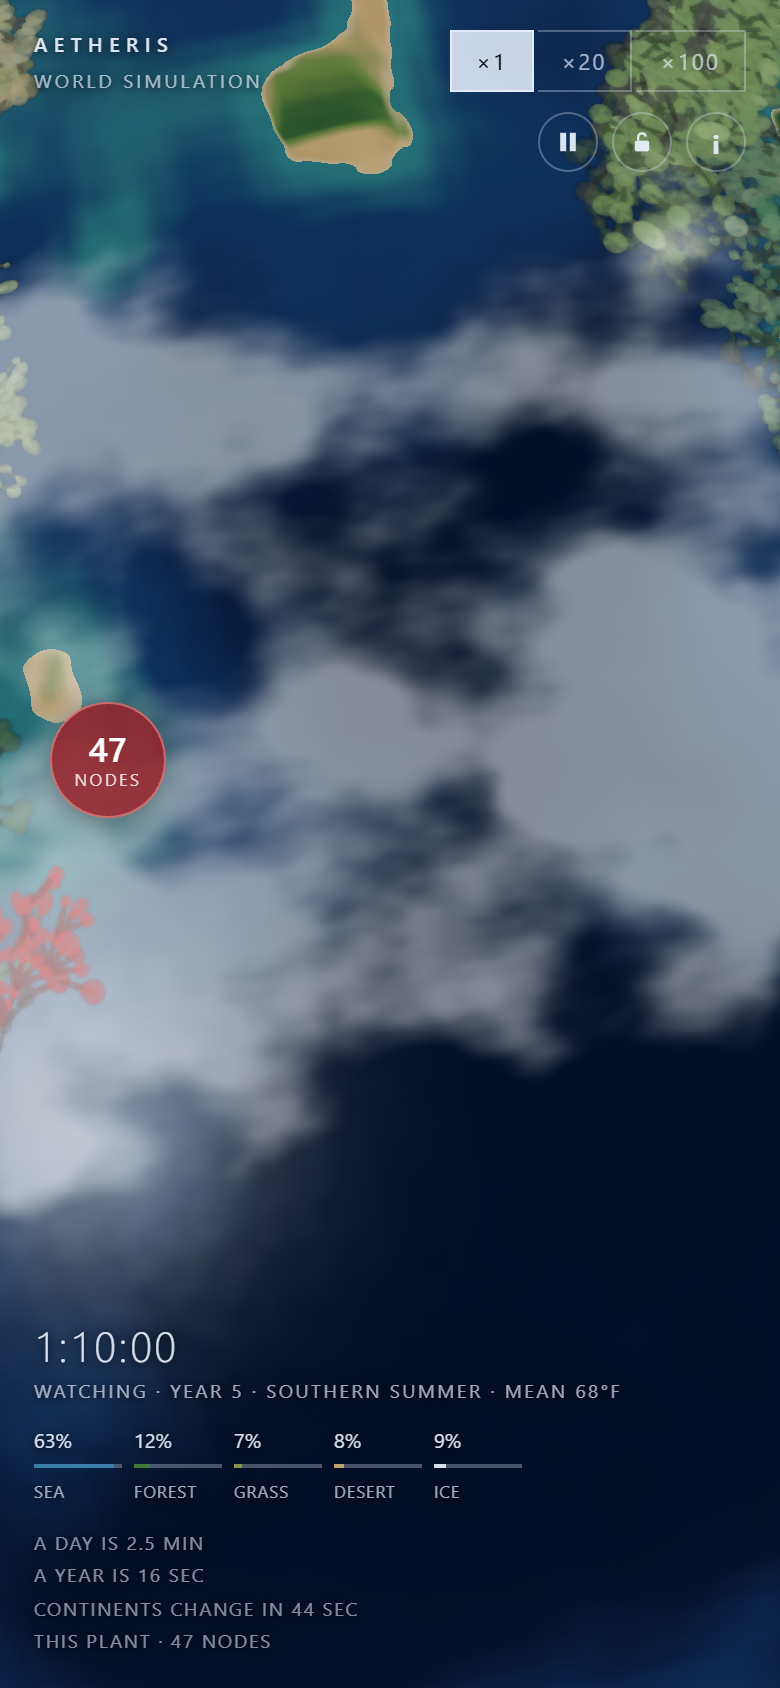
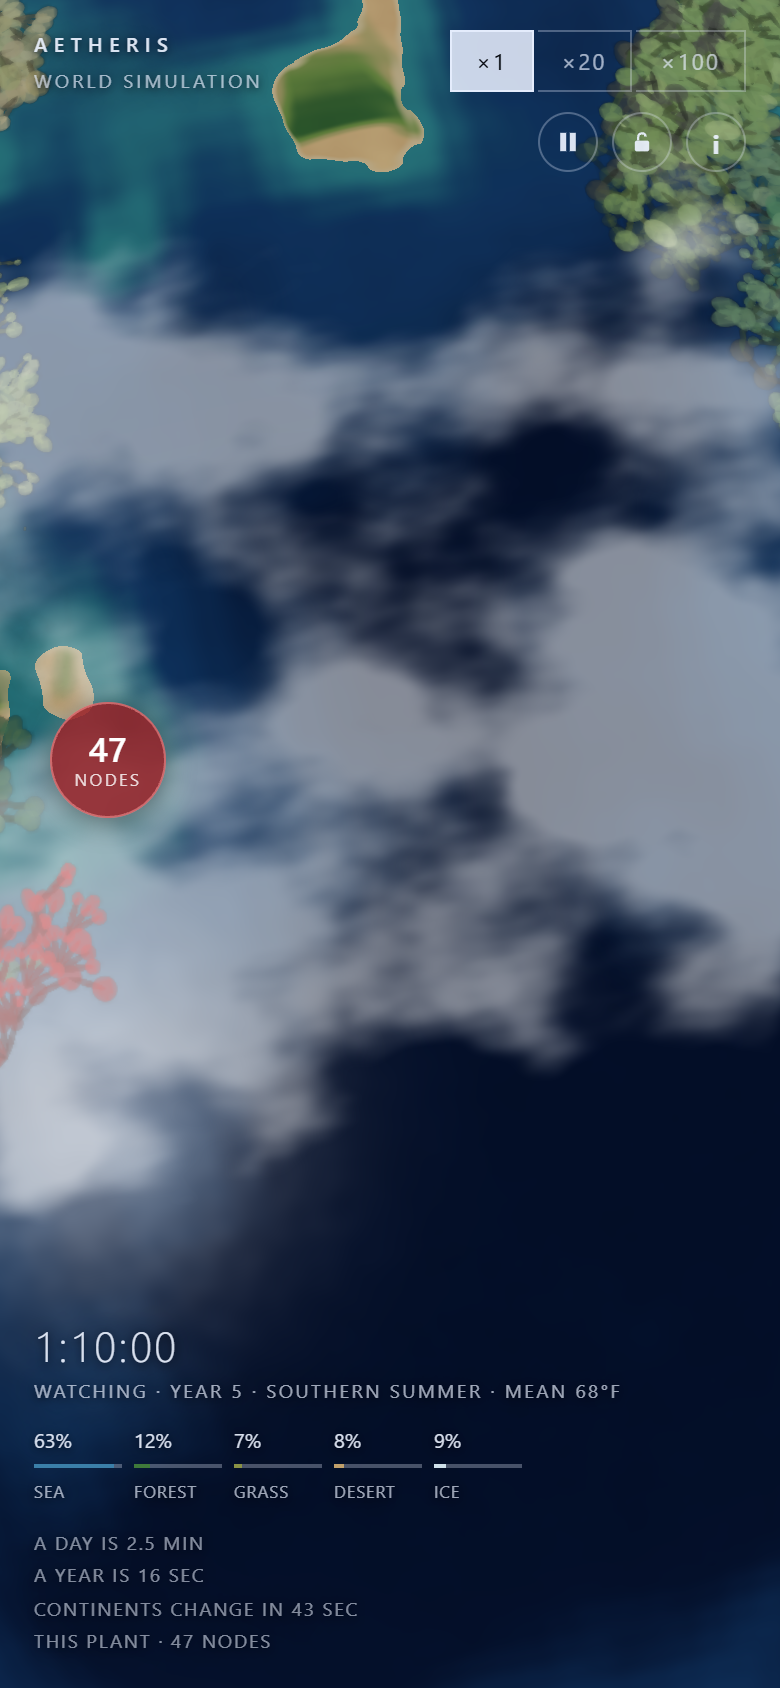
Three reasons one press lit up two plants, and a metric for the one that was not a bug
A spore must not inherit the highlight. It copies a parent's genome but is
rooted in its own right and lands anywhere on the planet, so keying the mark
off the genome SOURCE lit a brand-new independent plant on the far side of
the world. It is keyed off the parent now: only a real child inherits. Don
diagnosed this from a screenshot before I had finished measuring it.

Picking now takes a vote rather than the single nearest node. Nearest is a
knife edge -- where two plants interleave the closest node flips for a hair's
movement of the ray, and the ray moves on its own because the framing keeps
a slow breath in it even while the world is paused. Pressing the same spot
twice answered differently. Measured: twelve presses a sixth of a second
apart at each of eight spots, in a paused world, now give one answer every
time.

And the highlight is applied AFTER the wood is drained rather than before,
or it is drained with it. That one is not a bug in the selection: a plant is
held together by heartwood, so a body really is often two or three patches
of living growth strung on a thread of dead wood -- measured, nine of the
twelve largest bodies are one connected piece in the parent graph while
forming twenty-seven to eighty-eight spatial clumps with gaps up to eighty
steps. The highlight was right to take all of it and wrong to make the
thread invisible against open water.

Provinces, because every diversity number here was global and a global
[…]

diff --git a/index.html b/index.html
@@ -1746,6 +1746,60 @@ let angDiffSum = 0, angDiffN = 0, angBlocked = 0;
 const INSUM = new Float64Array(NIN), INSUM2 = new Float64Array(NIN);
 const INMIN = new Float32Array(NIN), INMAX = new Float32Array(NIN);
 let inN = 0;
+/* ---- provinces --------------------------------------------------------
+   Every diversity number in this project is global, and a global number
+   cannot tell a planet of distinct provinces from a planet uniformly mixed:
+   both have the same strategies present in the same proportions. That is
+   exactly the difference dispersal erases, so it is exactly the thing that
+   has to be counted to say whether dispersal is costing anything.
+
+   The sphere is cut into equal-area boxes — equal in area because bands of
+   equal latitude are not, and a polar box holding four nodes would otherwise
+   swamp the average with noise. Each box gets the strategy histogram of the
+   nodes standing in it. `differentiation` is the mean total-variation
+   distance between two boxes drawn at random: 0 means every province holds
+   the same mixture and geography has stopped meaning anything, 1 means no two
+   provinces have a strategy in common. `withinEven` is how mixed a single
+   province is on average, so the two together separate "everywhere the same
+   and varied" from "everywhere different and uniform". */
+const GEOLAT = 8;                       // bands of equal area, pole to pole
+function provinces(){
+  const H=[], N=[];
+  const boxOf = (x,y,z)=>{
+    /* equal-area: the band index is linear in sin(latitude) */
+    let bi=Math.floor((y+1)*0.5*GEOLAT); if(bi<0)bi=0; if(bi>=GEOLAT)bi=GEOLAT-1;
+    /* and each band is cut into as many boxes as its width can carry, so all
+       boxes hold about the same area */
+    const lo=-1+2*bi/GEOLAT, hi=-1+2*(bi+1)/GEOLAT;
+    const mid=(lo+hi)*0.5, cw=Math.sqrt(Math.max(1e-6,1-mid*mid));
+    const nlon=Math.max(1, Math.round(2*GEOLAT*cw));
+    let li=Math.floor((Math.atan2(z,x)+Math.PI)/(Math.PI*2)*nlon);
+    if(li<0)li=0; if(li>=nlon)li=nlon-1;
+    return bi*1000+li;
+  };
+  const map=new Map();
+  for(let i=0;i<nodeHigh;i++){
+    if(NLIVE[i]!==1) continue;
+    const k=boxOf(NPX[i],NPY[i],NPZ[i]);
+    let h=map.get(k);
+    if(!h){ h=new Float64Array(32); map.set(k,h); }
+    h[strategyOf(i*G)]++;
+  }
+  const boxes=[...map.values()].filter(h=>{ let t=0; for(let j=0;j<32;j++) t+=h[j]; return t>=40; });
+  if(boxes.length<2) return {provinces:boxes.length, differentiation:0, withinEven:0};
+  const norm=boxes.map(h=>{ let t=0; for(let j=0;j<32;j++) t+=h[j];
+                            const o=new Float64Array(32); for(let j=0;j<32;j++) o[j]=h[j]/t; return o; });
+  let d=0, n=0;
+  for(let a=0;a<norm.length;a++) for(let b2=a+1;b2<norm.length;b2++){
+    let s2=0; for(let j=0;j<32;j++) s2+=Math.abs(norm[a][j]-norm[b2][j]);
+    d+=s2*0.5; n++;
+  }
+  let ev=0;
+  for(const o of norm){ let h2=0; for(let j=0;j<32;j++) if(o[j]>0) h2-=o[j]*Math.log(o[j]); ev+=h2/Math.log(32); }
+  return { provinces:norm.length,
+           differentiation:+(d/Math.max(1,n)).toFixed(4),
+           withinEven:+(ev/norm.length).toFixed(4) };
+}
 function resetStats(){
   CAPHIST.fill(0); OUTHIST.fill(0); OUTRAW.fill(0); outN=0; angN=0;
   angDiffSum=0; angDiffN=0; angBlocked=0;
@@ -2033,21 +2087,7 @@ function emitNode(i, pass, w){
     geneColour(go, NPACE[i], GC);
     const young=1-grow;
     let r=GC[0]+young*44, g=GC[1]+young*40, b=GC[2]+young*34;
-    /* The selected body, shown whole. A plant's colour carries its niche and
-       its commitment, and a lineage that spans two terrains legitimately
-       changes colour across itself — so the eye cannot tell one large plant
-       from several touching ones, which is exactly the question worth asking
-       of a thing whose whole point is how much ground it holds. Red is the one
-       hue the palette never makes, for the same reason the size rings are
-       magenta. Value is kept, so the body's own structure still reads through
-       it: wood stays dark, tips stay bright. */
-    if(selId>0 && NSEL[i]===selId){
-      const f=SELFADE;
-      if(f>0){
-        const lum=(0.30*r+0.59*g+0.11*b)/255;
-        r+=( (90+165*lum) -r)*f; g+=(26*lum-g)*f; b+=(32*lum-b)*f;
-      }
-    }
+
     /* Dead wood is not black. Black would swamp hue, which is the channel
        carrying niche, and half the standing structure would go to it — the
        planet would read as scorched. Keep the lineage's hue, take the colour
@@ -2057,6 +2097,31 @@ function emitNode(i, pass, w){
     if(wood){
       const lum=0.30*r+0.59*g+0.11*b;
       r=(r*0.24+lum*0.76)*0.52; g=(g*0.24+lum*0.76)*0.52; b=(b*0.24+lum*0.76)*0.52;
+    }
+
+    /* The selected body, shown whole — and applied AFTER the wood is drained,
+       or the highlight is drained with it.
+     *
+     * That mattered more than it sounds. A plant here is held together by
+     * heartwood: a node that dies still holding children stops living but
+     * stays in the tree as structure, for up to `rot` ticks before the
+     * connection finally goes. So a body is routinely two or three patches of
+     * living growth strung on a thread of dead wood — genuinely one plant,
+     * and the highlight was right to take all of it. But reddening the wood
+     * before it was darkened left the thread almost black against open water,
+     * so the answer looked like a bug: two separate plants both lit up. Red
+     * the wood after, a little deeper than the living growth, and the reason
+     * they are one plant is visible in the same picture as the claim.
+     *
+     * Red because it is the one hue this palette never makes, for the same
+     * reason the size rings are magenta. Value is kept, so tips still read
+     * bright against trunk. */
+    if(selId>0 && NSEL[i]===selId && SELFADE>0){
+      const f=SELFADE, lum=(0.30*r+0.59*g+0.11*b)/255;
+      const tr = wood ? 70+90*lum : 90+165*lum;
+      const tg = wood ? 16*lum    : 26*lum;
+      const tb = wood ? 20*lum    : 32*lum;
+      r+=(tr-r)*f; g+=(tg-g)*f; b+=(tb-b)*f;
     }
 
     const rot=Math.atan2(hn,he);
@@ -2291,7 +2356,11 @@ function addNode(x,y,z,hx,hy,hz,src,par,amt,stepUsed){
   /* growth off a highlighted plant stays highlighted, so the body does not
      appear to stop at a line; and a recycled slot never keeps a stale mark,
      which would light up a stranger born into a dead node's place */
-  NSEL[i] = (src>=0 && selId>0 && NSEL[src]===selId) ? selId : 0;
+  /* `par`, not `src`. A spore copies a parent's genome but is rooted in its
+     own right — it passes par = -1 — so keying the mark off src lit up a
+     brand-new independent plant on the other side of the world merely because
+     the lineage it came from was being held. Only a real child inherits. */
+  NSEL[i] = (par>=0 && selId>0 && NSEL[src]===selId) ? selId : 0;
   if(src<0) randomGenome(i);
   else if(amt>0){
     inheritMutated(src,i,amt);
@@ -3078,6 +3147,7 @@ function plantStats(reset){
     fitSum:+dbgFit.toFixed(2), fitN:dbgFitOk,
     meanLifeSet:+(dbgLife/Math.max(1,dbgHits)).toFixed(0),
     hitFloor:dbgFloor, ageDeaths:dbgAgeDeaths,
+    geo:provinces(),
     strategies:Array.from(CENSUS).filter(v=>v>0).length,
     topStrategy:+(Math.max(...CENSUS)/Math.max(1,censusN)).toFixed(3),
     /* the census in full, not just its width and its peak. Two readings of it
@@ -4525,7 +4595,17 @@ function pickBody(px,py){
   const i=Math.min(PGRID-1,Math.max(0,((ox+1)*0.5*PGRID)|0));
   const j=Math.min(PGRID-1,Math.max(0,((oy+1)*0.5*PGRID)|0));
   const k=Math.min(PGRID-1,Math.max(0,((oz+1)*0.5*PGRID)|0));
-  let best=-1, bd=PARAMS.step*PARAMS.step*36;
+  /* Every body near the press votes, weighted by how close it comes, and the
+     loudest wins — rather than simply taking the single nearest node.
+     Nearest is a knife edge: where two plants interleave, the closest node
+     flips from one to the other for a hair's movement of the ray, and the ray
+     does move on its own, because the framing keeps a slow breath in it even
+     while the world is paused. Pressing the same spot twice then answered
+     differently. A vote only changes its mind when the finger is genuinely
+     between two plants, which is the honest case for it to be uncertain. */
+  const R=PARAMS.step*3.0, R2=R*R;
+  const vote=new Map();
+  let best=-1, bw=0;
   for(let a=-1;a<=1;a++){
     const ia=i+a; if(ia<0||ia>=PGRID) continue;
     for(let bb=-1;bb<=1;bb++){
@@ -4539,12 +4619,16 @@ function pickBody(px,py){
           if(NLIVE[q]===0) continue;
           const ex2=NPX[q]-ox, ey2=NPY[q]-oy, ez2=NPZ[q]-oz;
           const d2=ex2*ex2+ey2*ey2+ez2*ez2;
-          if(d2<bd){ bd=d2; best=q; }
+          if(d2>R2) continue;
+          const r2=PROOT[q];
+          const w=(vote.get(r2)||0) + 1/(d2+1e-9);
+          vote.set(r2,w);
+          if(w>bw){ bw=w; best=r2; }
         }
       }
     }
   }
-  return best<0 ? -1 : PROOT[best];
+  return best;
 }
 const selBadge = document.getElementById("selbadge");
 function placeBadge(px,py){
@@ -5345,6 +5429,55 @@ window.__world = {
   params(){ return PARAMS; },
   /* picking, so the gesture can be tested without dispatching one */
   pick(x,y){ return pickBody(x,y); },
+  /* Is a body one connected piece, and does it look like one? The parent
+     graph says what the simulation believes; the spatial clumping says what
+     the eye sees. Where they disagree, wood is holding two visible patches
+     together and the highlight is telling the truth about a plant that does
+     not look like one plant. */
+  bodyDiag(n){
+    const sz=new Map();
+    for(let i=0;i<nodeHigh;i++) if(NLIVE[i]!==0) sz.set(PROOT[i],(sz.get(PROOT[i])||0)+1);
+    const roots=[...sz.entries()].sort((a,b)=>b[1]-a[1]).slice(0,n|0).map(e=>e[0]);
+    const out=[];
+    for(const r of roots){
+      const ns=[]; let alive=0, wood=0;
+      for(let i=0;i<nodeHigh;i++) if(NLIVE[i]!==0 && PROOT[i]===r){ ns.push(i); if(NLIVE[i]===1) alive++; else wood++; }
+      const idx=new Map(); ns.forEach((v,k)=>idx.set(v,k));
+      const par=new Int32Array(ns.length); for(let k=0;k<ns.length;k++) par[k]=k;
+      const find=a=>{ while(par[a]!==a){ par[a]=par[par[a]]; a=par[a]; } return a; };
+      const uni=(a,b)=>{ a=find(a); b=find(b); if(a!==b) par[a]=b; };
+      /* the parent graph the simulation actually maintains */
+      for(let k=0;k<ns.length;k++){
+        const i=ns[k], q=NPAR[i];
+        if(q>=0 && NLIVE[q]!==0 && NGEN[q]===NPGEN[i] && idx.has(q)) uni(k, idx.get(q));
+      }
+      let comps=new Set(); for(let k=0;k<ns.length;k++) comps.add(find(k));
+      const connected = comps.size===1;
+      /* and the same nodes clumped purely by where they are */
+      const par2=new Int32Array(ns.length); for(let k=0;k<ns.length;k++) par2[k]=k;
+      const find2=a=>{ while(par2[a]!==a){ par2[a]=par2[par2[a]]; a=par2[a]; } return a; };
+      const lim=PARAMS.step*1.8, lim2=lim*lim;
+      for(let a=0;a<ns.length;a++) for(let bq=a+1;bq<ns.length;bq++){
+        const i=ns[a], j=ns[bq];
+        const dx=NPX[i]-NPX[j], dy=NPY[i]-NPY[j], dz=NPZ[i]-NPZ[j];
+        if(dx*dx+dy*dy+dz*dz < lim2){ const x=find2(a), y=find2(bq); if(x!==y) par2[x]=y; }
+      }
+      const cl=new Map();
+      for(let k=0;k<ns.length;k++){ const c=find2(k); if(!cl.has(c)) cl.set(c,[]); cl.get(c).push(ns[k]); }
+      /* the widest gap between the two clumps that are furthest apart */
+      let gap=0; const arr=[...cl.values()];
+      for(let a=0;a<arr.length;a++) for(let bq=a+1;bq<arr.length;bq++){
+        let best=1e9;
+        for(const i of arr[a]) for(const j of arr[bq]){
+          const dx=NPX[i]-NPX[j], dy=NPY[i]-NPY[j], dz=NPZ[i]-NPZ[j];
+          const d=dx*dx+dy*dy+dz*dz; if(d<best) best=d;
+        }
+        best=Math.sqrt(best)/PARAMS.step; if(best>gap) gap=best;
+      }
+      out.push({root:r, alive, wood, connected, clumps:cl.size, gap});
+    }
+    return out;
+  },
   selected(){ return {id:selId, size:selCount, fade:+selFade().toFixed(3), held:selHold, frames:frameTick}; },
   /* pass true to zero the sampling accumulators, so the next reading covers
      only the interval since this one */

diff --git a/sweeps/pickstable.js b/sweeps/pickstable.js
@@ -1,0 +1,40 @@
+const path=require('path'); const {chromium}=require('playwright');
+const PAGE=path.resolve(__dirname,'..','index.html');
+const GL=['--use-gl=angle','--use-angle=swiftshader','--enable-unsafe-swiftshader','--ignore-gpu-blocklist','--enable-webgl'];
+(async()=>{
+  const b=await chromium.launch({args:GL});
+  const ctx=await b.newContext({viewport:{width:390,height:844},deviceScaleFactor:2,isMobile:true,hasTouch:true});
+  const p=await ctx.newPage(); p.setDefaultTimeout(600000);
+  const errs=[]; p.on('pageerror',e=>errs.push(String(e.message).slice(0,160)));
+  await p.goto('file://'+PAGE+'#seed=31337');
+  await p.waitForFunction(()=>window.__world&&window.__world.S.epoch0>0,{timeout:180000});
+  await p.waitForFunction(()=>{const s=document.getElementById('splash');return !s||s.classList.contains('gone');},{timeout:60000});
+  await p.evaluate(()=>window.__world.runWorld(300,100,16));
+  await p.evaluate(()=>{window.__world.setView(1.42,0.26,0.30); document.getElementById('playpause').click();});
+  await p.waitForTimeout(1500);
+  // press the SAME spot repeatedly in a paused world and see if it answers the same
+  const spots=await p.evaluate(()=>{
+    const out=[];
+    for(let x=40;x<=350;x+=30) for(let y=220;y<=680;y+=40){ if(window.__world.pick(x,y)>=0) out.push([x,y]); }
+    return out.slice(0,8);
+  });
+  /* one pick per turn of the event loop, with real waits between, so frames
+     run and the framing breath actually moves the ray — which is the thing
+     that made repeated presses answer differently */
+  const r=[];
+  for(const [x,y] of spots){
+    const seen=new Set();
+    for(let k=0;k<12;k++){
+      seen.add(await p.evaluate(([x,y])=>window.__world.pick(x,y),[x,y]));
+      await p.waitForTimeout(160);
+    }
+    r.push(seen.size);
+  }
+  const unstable=r.filter(v=>v>1).length;
+  console.log('12 repeated picks, 160ms apart, at each of', r.length, 'spots in a PAUSED world');
+  console.log('distinct answers per spot:', r.join(' '));
+  console.log(unstable===0 ? 'every spot answered identically every time'
+                           : unstable+' spot(s) gave more than one answer');
+  console.log('errors:', errs.length?errs[0]:'none');
+  await b.close();
+})();

diff --git a/sweeps/conndiag.js b/sweeps/conndiag.js
@@ -1,0 +1,19 @@
+const path=require('path'); const {chromium}=require('playwright');
+const PAGE=path.resolve(__dirname,'..','index.html');
+const GL=['--use-gl=angle','--use-angle=swiftshader','--enable-unsafe-swiftshader','--ignore-gpu-blocklist','--enable-webgl'];
+(async()=>{
+  const b=await chromium.launch({args:GL});
+  const p=await b.newPage({viewport:{width:300,height:300}}); p.setDefaultTimeout(600000);
+  await p.goto('file://'+PAGE+'#seed=31337');
+  await p.waitForFunction(()=>window.__world&&window.__world.S.epoch0>0,{timeout:180000});
+  await p.evaluate(()=>{window.requestAnimationFrame=()=>0;});
+  await p.evaluate(()=>window.__world.runWorld(1200,100,16));
+  const r=await p.evaluate(()=>window.__world.bodyDiag(12));
+  console.log('For the 12 largest bodies: are their nodes one connected piece,');
+  console.log('and how far apart are the spatial clumps?');
+  console.log(' body   nodes  wood  parentGraph  spatialClumps  biggestGap(steps)');
+  for(const d of r) console.log('  '+String(d.root).padStart(6), String(d.alive).padStart(6),
+    String(d.wood).padStart(5), (d.connected?'connected':'SPLIT').padStart(12),
+    String(d.clumps).padStart(14), d.gap.toFixed(1).padStart(17));
+  await b.close();
+})();

diff --git a/tools/sweep.js b/tools/sweep.js
@@ -70,6 +70,9 @@ function distil(p) {
     meanPace: p.body.meanPace, meanCap: p.body.meanCap,
     fanSD: p.body.fanSD, stepSD: p.body.stepSD,
     activeMean: p.active.mean,
+    geoDiff:  p.geo ? p.geo.differentiation : null,
+    geoEven:  p.geo ? p.geo.withinEven : null,
+    geoBoxes: p.geo ? p.geo.provinces : null,
     sigListens: p.signal ? p.signal.listens : null,
     sigSpeaks:  p.signal ? p.signal.speaks  : null,
     sigBoth:    p.signal ? p.signal.both    : null,
